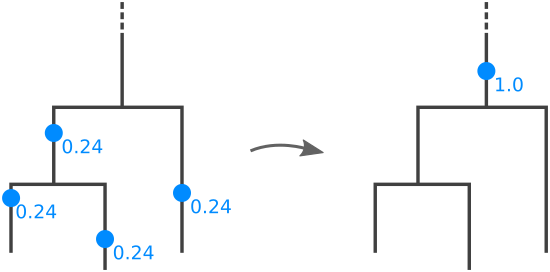
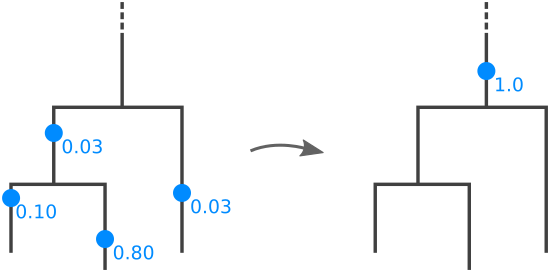
Add pendent length calculation to accumulate command.

diff --git a/src/commands/edit/accumulate.cpp b/src/commands/edit/accumulate.cpp
@@ -35,6 +35,7 @@
 #include "genesis/tree/function/functions.hpp"
 
 #include <cassert>
+#include <utility>
 
 #ifdef GENESIS_OPENMP
 #   include <omp.h>
@@ -69,7 +70,7 @@ void setup_accumulate( CLI::App& app )
         true
     );
     threshold_opt->group( "Settings" );
-    threshold_opt->check( CLI::Range( 0.0, 1.0 ));
+    threshold_opt->check( CLI::Range( 0.5, 1.0 ));
 
     // -----------------------------------------------------------
     //     Output options
@@ -133,24 +134,39 @@ void run_accumulate( AccumulateOptions const& options )
 
         // We need the masses per edge of the pquery.
         auto masses = std::vector<double>( tree.edge_count(), 0.0 );
+
+        // Furthermore, store the weighted pendant length of all placements in the subtree.
+        // We want the resulting pendant length to be the weighted average of all pendant lengths
+        // in the accumulated subtree. So, we propagate the weighted sum of pend lengths up the tree,
+        // and divide by the sum of weights in the end to get the average.
+        // This sum of weights happens to be the sum of lwrs that is already stored in masses[].
+        auto pendant = std::vector<double>( tree.edge_count(), 0.0 );
+
+        // Init both with the values from the pquery.
         for( auto const& place : pqry.placements() ) {
-            masses[ place.edge().index() ] += place.like_weight_ratio;
+            assert( masses[ place.edge().index() ] == 0.0 );
+            masses[ place.edge().index() ] = place.like_weight_ratio;
+            pendant[ place.edge().index() ] = place.like_weight_ratio * place.pendant_length;
         }
 
         // Move the masses up the tree until they exceed the threshold.
         bool exceeded_threshold = false;
         size_t result_edge;
         for( auto it : postorder( tree )) {
+
+            // We are interested in edges, so skip the last iteration.
             if( it.is_last_iteration() ) {
                 continue;
             }
 
             auto& cur_mass = masses[ it.edge().index() ];
+            auto& cur_pend = pendant[ it.edge().index() ];
 
-            // Add subtree masses.
+            // Add subtree masses and pendant lengths.
             auto link = &it.link().next();
             while( link != &it.link() ) {
                 cur_mass += masses[ link->edge().index() ];
+                cur_pend += pendant[ link->edge().index() ];
                 link = &link->next();
             }
 
@@ -168,8 +184,22 @@ void run_accumulate( AccumulateOptions const& options )
         if( exceeded_threshold ) {
             pqry.clear_placements();
             auto& place = pqry.add_placement( tree.edge_at( result_edge ));
+
+            // Set a new lwr of 1.0, as we throw away everything else.
             place.like_weight_ratio = 1.0;
-            place.proximal_length = tree.edge_at( result_edge ).data<CommonEdgeData>().branch_length / 2.0;
+
+            // Set the pendant length to the weighted average of the lengths in the subtree.
+            place.pendant_length = pendant[ result_edge ] / masses[ result_edge ];
+
+            // Set the position along the branch. It does not really matter that much,
+            // so do a nice little thing and set it at the position along the branch
+            // that corresponds to the accumulated mass. So, if the placement represents 96% of
+            // the mass, it is placed at 0.96 along the branch.
+            // This way, pqueries get distinct prox lengths, which might help in downstream
+            // analyses.
+            auto const bl = tree.edge_at( result_edge ).data<CommonEdgeData>().branch_length;
+            assert( masses[ result_edge] >= options.threshold );
+            place.proximal_length = bl * masses[ result_edge ];
         } else {
             removal_collector.push_back( i );
         }

diff --git a/doc/md/accumulate.md b/doc/md/accumulate.md
@@ -4,7 +4,7 @@ The command is useful to assess placements that are distributed across (nearby) 
 
 ![Accumulation of placement mass towards a basal branch.](https://github.com/lczech/gappa/blob/master/doc/png/accumulate.png?raw=true)
 
-That is, each pquery is treated separately. Its mass is first normalized to a total of 1.0. Then, the command looks for the basal branch that contains more than the treshold mass. This can be understood as finding the clade that contains most of the placement mass. All placements of the pquery are then removed, and only one placement at the basal branch is added, with a mass of 1.0, which hence represents the accumulated original masses.
+That is, each pquery is treated separately. Its mass is first normalized to a total of 1.0. Then, the command looks for the basal branch whose underlying clade accumulates more than the threshold mass. This can be understood as finding the clade that contains most of the placement mass. All placements of the pquery are then removed, and only one placement at the basal branch is added, with a mass of 1.0, which hence represents the accumulated original masses. The pendant length of the resulting pquery is set to the weighted average of the pendant lengths that have been accumulated in the clade, using the masses (likelihood weight ratios) as weights.
 
 It can happen that a pquery contains placement mass across different sides of the root. If no side contains more than the given `--threshold` mass, there is no basal branch or clade that satisfies the above description. In that case, the whole pquery is removed from the output, and its name(s) are printed in order to inform about this. This can for example happen with chimeric sequences that fit in multiple places of the tree, and hence should be treated as a warning sign. Another reason can be that the root of reference tree is not chosen properly. In that case, it can help to reroot the tree first.
 
